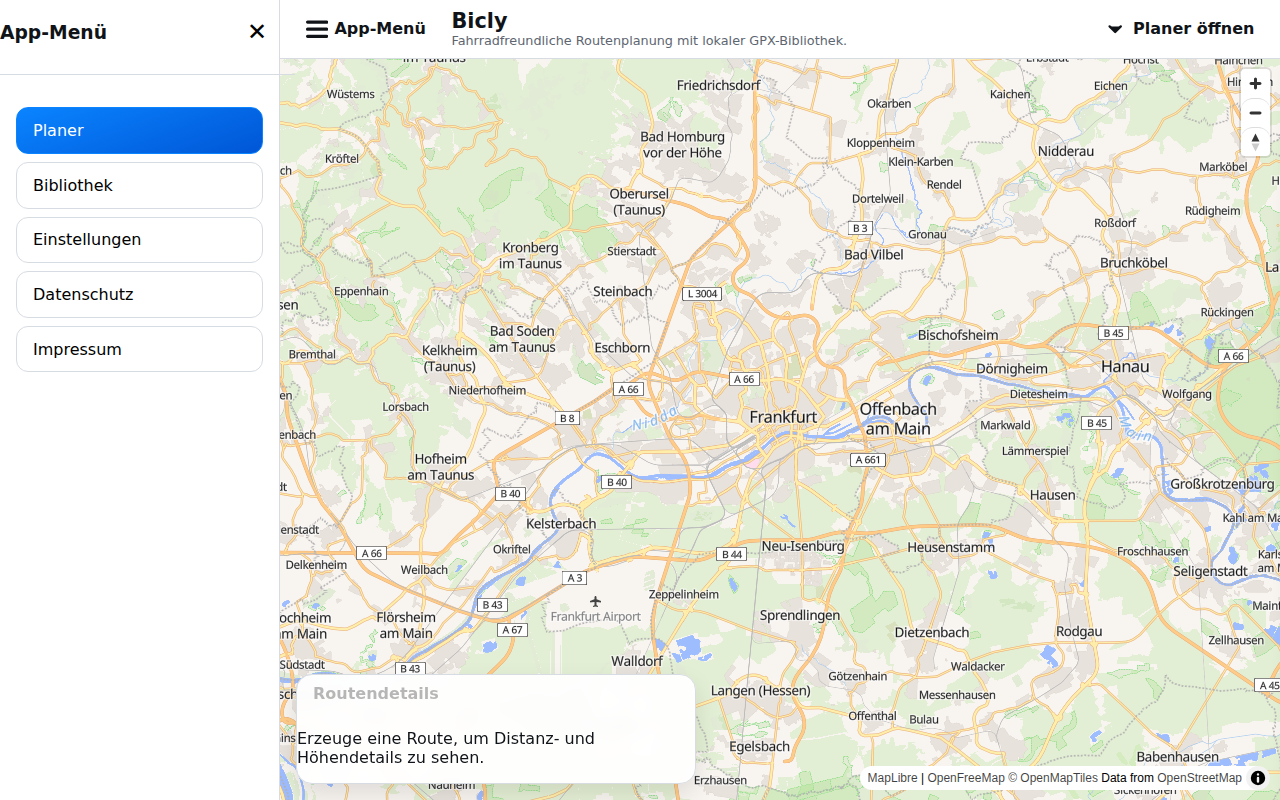
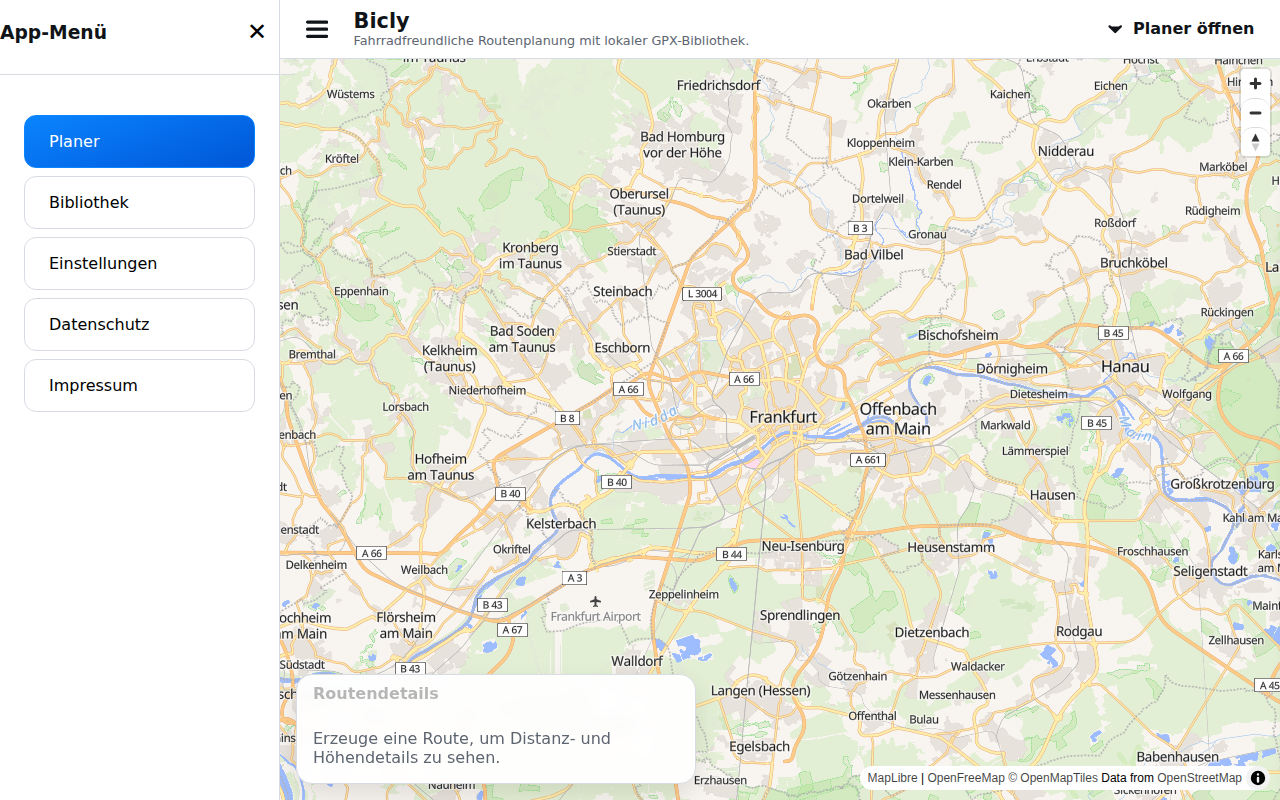
Refine UI: Remove menu text, compact route stats, and improve mobile layout.
- Hide "App menu" text label on hamburger button.
- Reorganize route stats into a compact summary container.
- Remove elevation chart expansion toggle and associated logic.
- Increase padding and spacing in side menu.
- Improve mobile touch targets for place search results.
- Move route details below map on mobile to avoid attribution occlusion.
- Align empty-state hint text with route details.

Changed region(s): [[0.0, 0.125, 0.2188, 0.5], [0.25, 0.0, 0.6562, 0.0625], [0.2188, 0.9062, 0.4688, 0.9688]]

diff --git a/frontend/src/App.jsx b/frontend/src/App.jsx
@@ -180,7 +180,7 @@ const TEXT = {
   },
 }
 
-const ElevationChart = ({ profile, title, legend, hoverHint, activeDistanceM, onHoverPoint, onLeave, isExpanded, onToggleExpand, t }) => {
+const ElevationChart = ({ profile, title, legend, hoverHint, activeDistanceM, onHoverPoint, onLeave, t }) => {
   if (!profile.length) return null
 
   const totalDistM = profile[profile.length - 1].distanceM
@@ -288,12 +288,9 @@ const ElevationChart = ({ profile, title, legend, hoverHint, activeDistanceM, on
   }
 
   return (
-    <section className={`elevation-chart ${isExpanded ? 'expanded' : ''}`} aria-label={title}>
+    <section className="elevation-chart" aria-label={title}>
       <div className="elevation-chart-header">
         <h4>{title}</h4>
-        <button type="button" className="icon-button small" onClick={onToggleExpand} aria-label={isExpanded ? t.collapseChart : t.expandChart}>
-          <span className="icon-only">{isExpanded ? <MinimizeIcon /> : <ExpandIcon />}</span>
-        </button>
       </div>
       <div className="elevation-chart-container">
         <Line data={data} options={options} />
@@ -440,7 +437,6 @@ export default function App() {
   const [userMenuOpen, setUserMenuOpen] = useState(false)
   const [headerExpanded, setHeaderExpanded] = useState(false)
   const [showRouteDetails, setShowRouteDetails] = useState(() => Boolean(plannerDraft?.latestGpx))
-  const [chartExpanded, setChartExpanded] = useState(false)
   const [routeStats, setRouteStats] = useState(() => plannerDraft?.routeStats?.elevationProfile ? plannerDraft.routeStats : emptyRouteStats)
   const [activeElevationPoint, setActiveElevationPoint] = useState(null)
   const [isExternalRoute, setIsExternalRoute] = useState(false)
@@ -740,7 +736,17 @@ export default function App() {
               <span>{t.routeDetails}</span>
               <span className="icon-small" aria-hidden="true">{showRouteDetails ? <ArrowDownIcon /> : <ArrowUpIcon />}</span>
             </button>
-          {showRouteDetails && latestGpx && <section className="route-details"><h3>{t.routeDetails}</h3><p><strong>{t.distance}:</strong> {routeStats.distanceKm.toFixed(1)} km</p><p><strong>{t.ascent}:</strong> {Math.round(routeStats.ascentM)} m</p><p><strong>{t.descent}:</strong> {Math.round(routeStats.descentM)} m</p>{routeStats.rawSummary && <p>{routeStats.rawSummary}</p>}<ElevationChart profile={routeStats.elevationProfile} title={t.elevationProfile} legend={t.steepLegend} hoverHint={t.elevationFocusHint} activeDistanceM={activeElevationPoint?.distanceM} onHoverPoint={setActiveElevationPoint} onLeave={() => setActiveElevationPoint(null)} isExpanded={chartExpanded} onToggleExpand={() => setChartExpanded((prev) => !prev)} t={t} /></section>}
+          {showRouteDetails && latestGpx && (
+            <section className="route-details">
+              <div className="route-stats-summary">
+                <span><strong>{t.distance}:</strong> {routeStats.distanceKm.toFixed(1)} km</span>
+                <span><strong>{t.ascent}:</strong> {Math.round(routeStats.ascentM)} m</span>
+                <span><strong>{t.descent}:</strong> {Math.round(routeStats.descentM)} m</span>
+              </div>
+              {routeStats.rawSummary && <p>{routeStats.rawSummary}</p>}
+              <ElevationChart profile={routeStats.elevationProfile} title={t.elevationProfile} legend={t.steepLegend} hoverHint={t.elevationFocusHint} activeDistanceM={activeElevationPoint?.distanceM} onHoverPoint={setActiveElevationPoint} onLeave={() => setActiveElevationPoint(null)} t={t} />
+            </section>
+          )}
             {!latestGpx && <p className="route-bottom-sheet-empty">{t.routeDetailsUnavailable}</p>}
           </section>
         </section>

diff --git a/frontend/src/styles.css b/frontend/src/styles.css
@@ -146,6 +146,10 @@ button.active { background: linear-gradient(160deg, var(--accent), var(--accent-
 }
 .sheet-expand-button:hover { background: var(--accent-soft); }
 
+.app-menu-button .button-label {
+  display: none;
+}
+
 /* --- Planner Layout --- */
 
 .planner-layout {
@@ -232,6 +236,7 @@ button.active { background: linear-gradient(160deg, var(--accent), var(--accent-
 
   .app-brand-block p:not(.force-show) { display: none; }
   .sheet-expand-button .button-label { display: none; }
+
 }
 
 /* --- Menu Content --- */
@@ -248,8 +253,8 @@ button.active { background: linear-gradient(160deg, var(--accent), var(--accent-
 @media (min-width: 769px) {
   .planner-mobile-close { display: none; }
 }
-.menu-content { display: flex; flex-direction: column; gap: 0.5rem; padding: 1rem; }
-.menu-content button { text-align: left; padding: 0.8rem 1rem; }
+.menu-content { display: flex; flex-direction: column; gap: 0.5rem; padding: 1.5rem; }
+.menu-content button { text-align: left; padding: 1rem 1.5rem; }
 
 /* --- Route Details (Bottom Sheet) --- */
 .route-bottom-sheet {
@@ -290,12 +295,25 @@ button.active { background: linear-gradient(160deg, var(--accent), var(--accent-
 }
 .route-bottom-sheet.closed .route-bottom-sheet-toggle { border-bottom: none; }
 
+.route-bottom-sheet-empty {
+  padding: 1rem;
+  margin: 0;
+  color: var(--muted);
+}
+
 .route-details {
   padding: 1rem;
   overflow-y: auto;
   display: flex;
   flex-direction: column;
   gap: 0.5rem;
+}
+
+.route-stats-summary {
+  display: flex;
+  flex-wrap: wrap;
+  gap: 0.5rem 1rem;
+  font-size: 0.95rem;
 }
 
 /* --- Components --- */
@@ -329,15 +347,6 @@ button.active { background: linear-gradient(160deg, var(--accent), var(--accent-
 
 .elevation-chart-container { height: 160px; border: 1px solid var(--line); border-radius: 8px; background: #f9fbff; transition: height 0.3s ease; }
 
-.elevation-chart.expanded .elevation-chart-container {
-  height: 400px;
-}
-
-@media (max-width: 768px) {
-  .elevation-chart.expanded .elevation-chart-container {
-    height: 300px;
-  }
-}
 
 .library-page, .settings-page, .legal-page { padding: 2rem; overflow-y: auto; max-width: 1000px; margin: 0 auto; width: 100%; display: flex; flex-direction: column; gap: 1.5rem; }
 
@@ -348,8 +357,34 @@ button.active { background: linear-gradient(160deg, var(--accent), var(--accent-
 .quick-actions button { flex: 1; font-size: 0.85rem; }
 
 .place-results { border: 1px solid var(--line); border-radius: 10px; background: #fff; padding: 0.5rem; max-height: 200px; overflow-y: auto; }
-.place-result { text-align: left; width: 100%; border: none; border-bottom: 1px solid #eee; border-radius: 0; padding: 0.5rem; }
+.place-result { text-align: left; width: 100%; border: none; border-bottom: 1px solid #eee; border-radius: 0; padding: 0.8rem 1rem; min-height: 3rem; }
 .place-result:last-child { border-bottom: none; }
+
+/* Mobile Adjustments Overrides */
+@media (max-width: 768px) {
+  .route-bottom-sheet {
+    position: static;
+    width: 100%;
+    margin: 0;
+    border-radius: 0;
+    border-left: none;
+    border-right: none;
+    border-bottom: none;
+    max-height: none;
+    box-shadow: none;
+    background: #fff;
+    backdrop-filter: none;
+  }
+
+  .map-stack {
+    overflow-y: auto;
+  }
+
+  .map {
+    flex: none;
+    height: 300px; /* Give map a fixed height on mobile so details can follow below */
+  }
+}
 
 .custom-profile-area {
   width: 100%;
